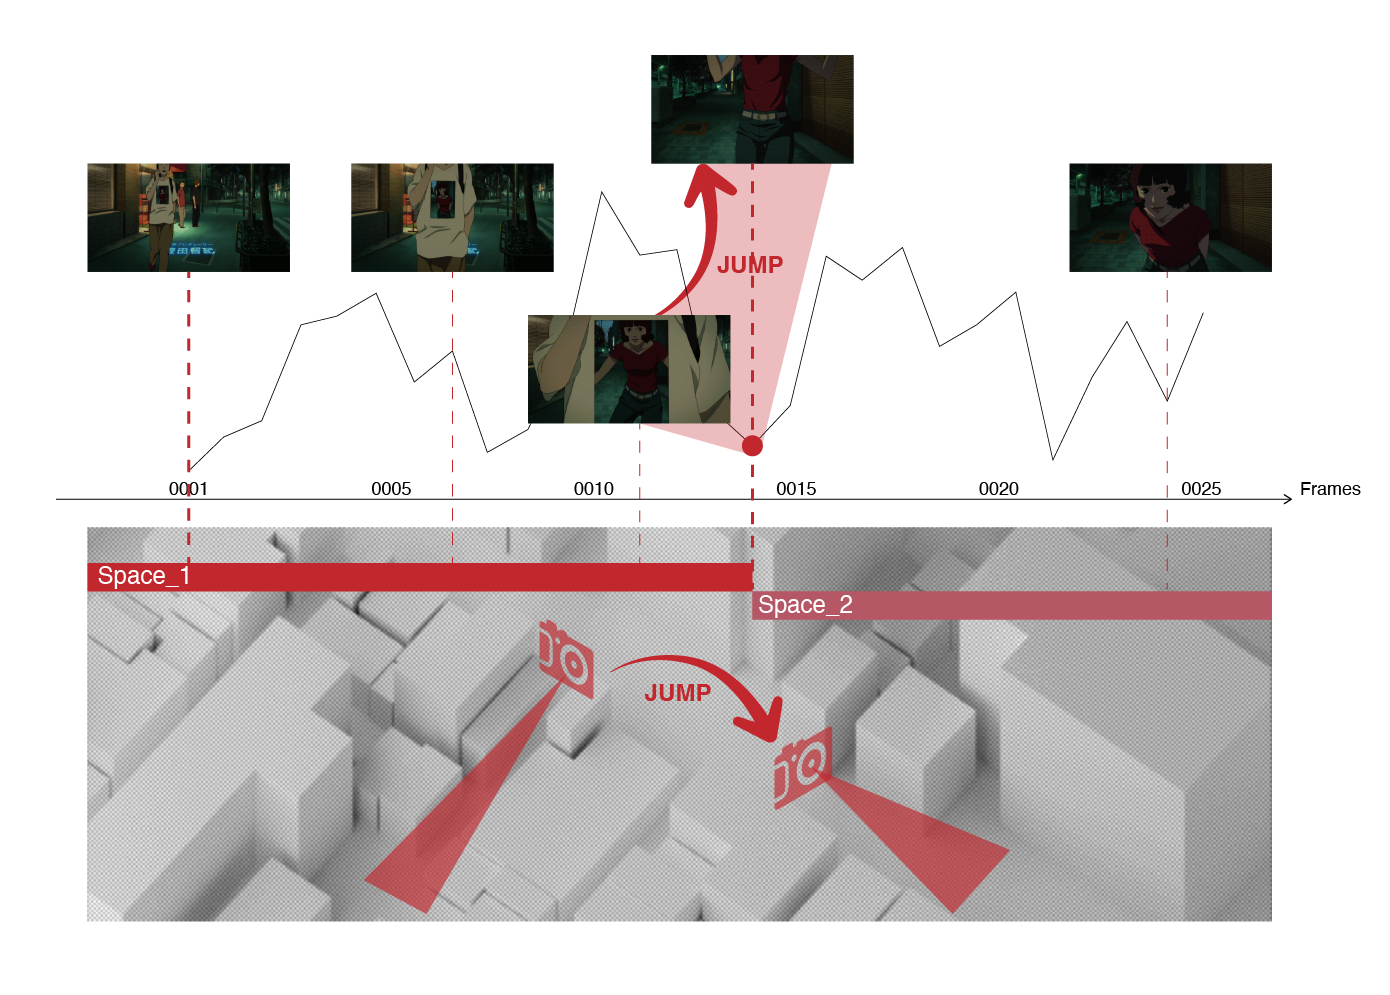
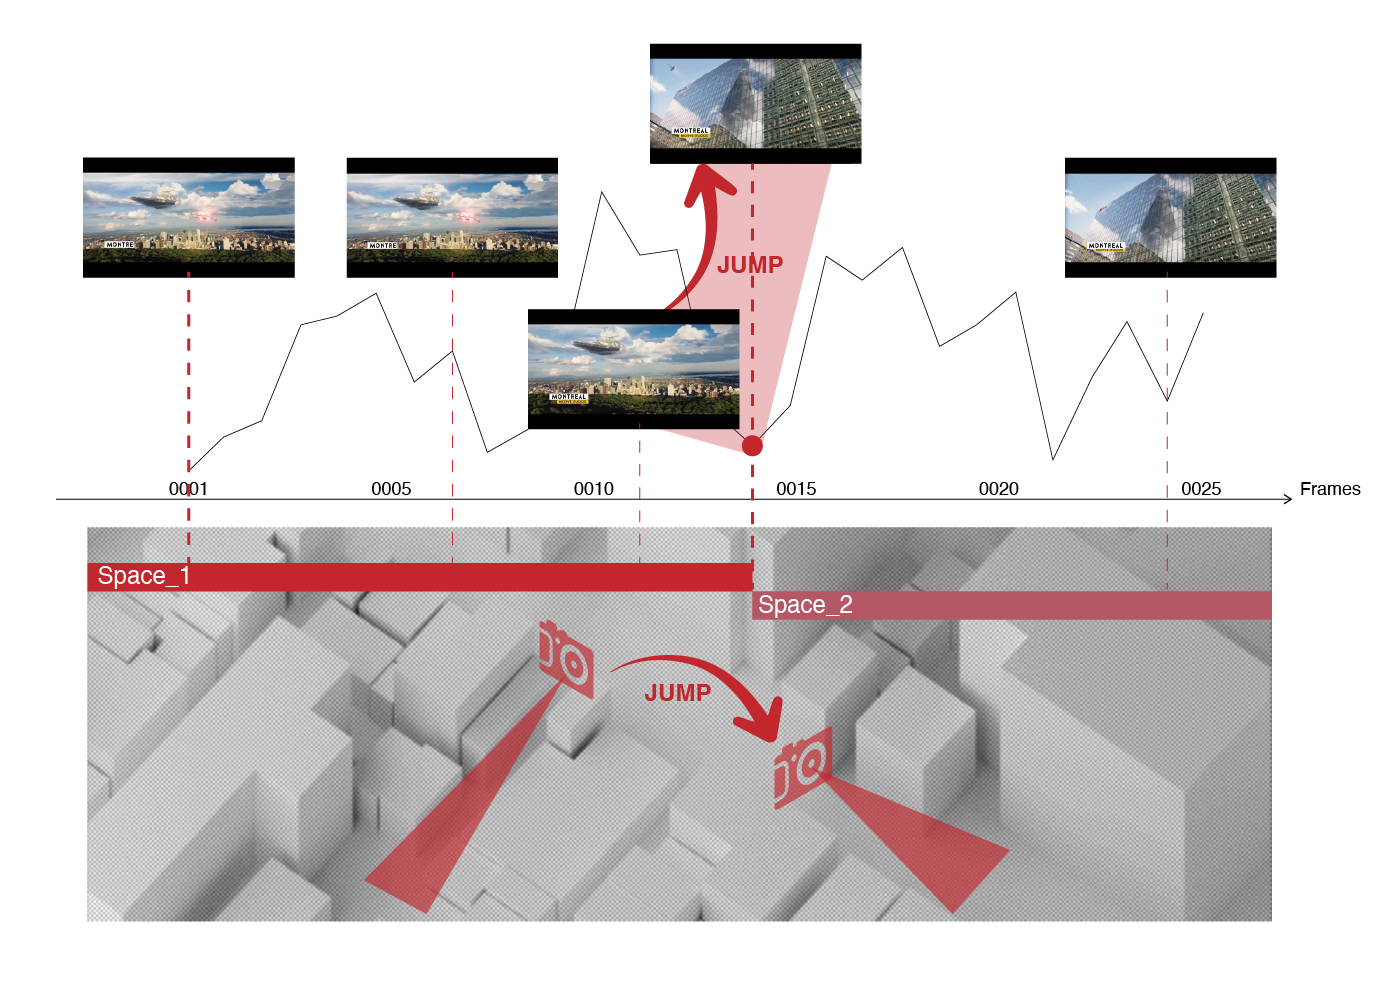
caption fixed, image fixed, citation fixed

diff --git a/index.html b/index.html
@@ -283,9 +283,13 @@
       </div>
       <div class="main-content-block">
         <!--You can embed an image like this:-->
-        <img src="./images/teaser2.png" width="512px" />
+        <img src="./images/teaser.png" width="512px" />
       </div>
-      <div class="margin-right-block">Teaser image.</div>
+      <div class="margin-right-block">
+        Figure: Detecting a spatial change. (The top plot shows the distance
+        between consecutive frame embeddings over time. A sharp drop in the
+        curve around frame 15 marks a scene change).
+      </div>
     </div>
 
     <div class="content-margin-container" id="intro">
